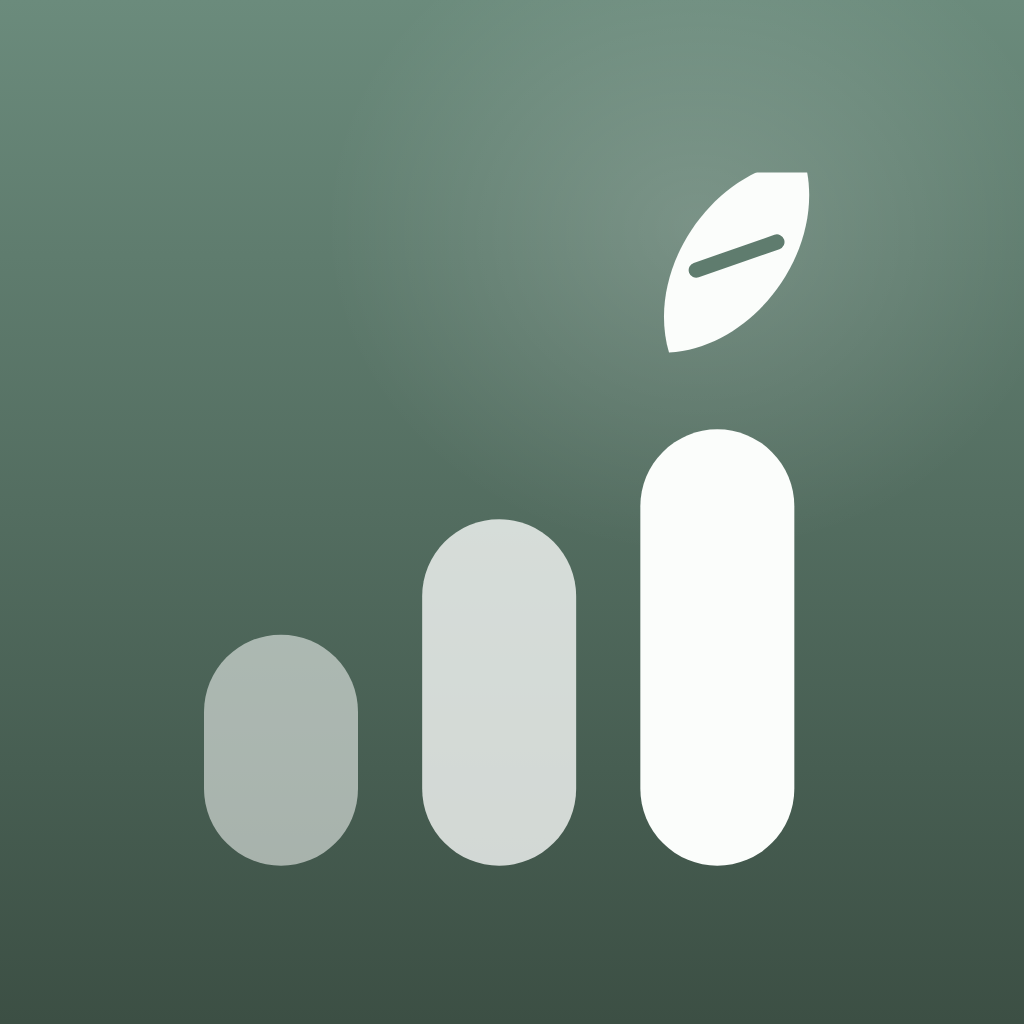
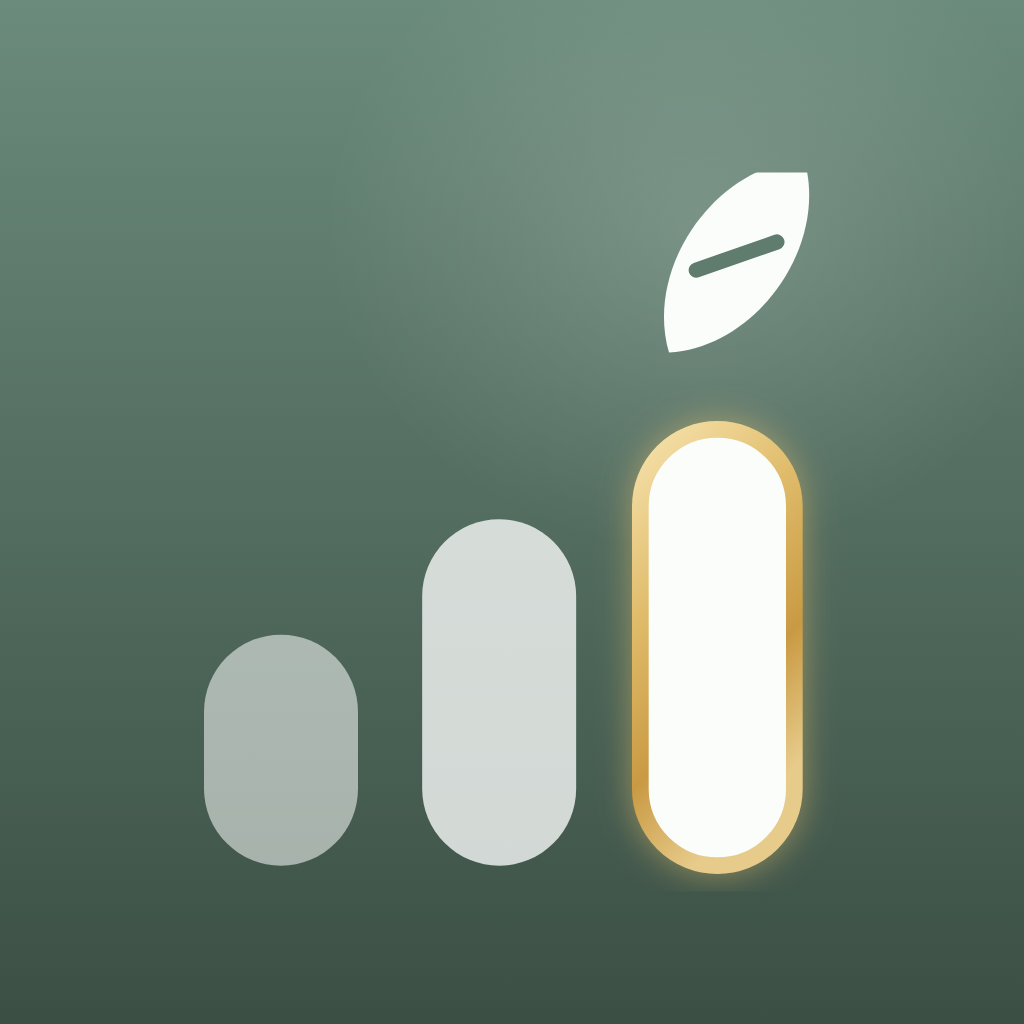
Gold the top bar, and break the review-screenshot deadlock
The subscription image was too close to the free app icon to tell apart at
a glance. The tallest bar now carries a gold border with a soft rim light.

The three bars are treated as a tier ladder, which is why the gold is on
the third one alone: Plus is currently the only tier and the top tier, so a
middle tier later takes bar 2 without redrawing anything and a free tier is
bar 1, already there and already plain. Gold on all three would retire the
ladder as a way of saying anything.

Adds scripts/render-paywall-screenshot.mjs for a real deadlock: App Store
Connect wants a review screenshot before the subscription can leave Missing
Metadata, and StoreKit cannot fetch a Missing Metadata product — so a
TestFlight paywall can only ever say "Subscription unavailable right now",
which is the one image a reviewer must not be given. The script loads the
real index.html, forces the gate on, stubs ONLY the store, opens the
shipping openPlusSheet() and captures it at 1320x2868. Nothing but the
price is a mock-up, and it fails loudly rather than writing a priceless
image if the stub does not reach the sheet.

It serves the app over a throwaway localhost server rather than file://,
because the app is origin-sensitive: IndexedDB and localStorage behave
differently there and loadState() would not run.

Claude-Session: https://claude.ai/code/session_012a8SrUUcH629Ld6oWwWTEW

Changed region(s): [[0.5938, 0.4062, 0.8125, 0.875]]

diff --git a/TherapyTracker-web/icon-ideas/groundwork/subscription-plus-1024.html b/TherapyTracker-web/icon-ideas/groundwork/subscription-plus-1024.html
@@ -5,11 +5,16 @@
      Regenerate rather than editing the PNG:
        node scripts/render-subscription-image.mjs
 
-     Deliberately close to the app icon so it is recognisably GroundWork at redemption-sheet
-     size. It KEEPS the icon's left-to-right fade (55% / 78% / 100% white) — lighting all three
-     bars equally was tried and reads flat, because that fade is what gives the mark its depth.
-     It differs by crop and light instead: a tighter, hero-sized mark and a soft lift behind
-     the leaf.
+     Recognisably GroundWork at redemption-sheet size, and unmistakably NOT the free app icon:
+     the tallest bar carries a gold border. Lighting all three bars equally was tried first and
+     reads flat — the left-to-right fade is what gives the mark its depth — so the fade stays
+     and the gold does the work.
+
+     THE THREE BARS ARE A TIER LADDER, and that is why the gold is on the third one alone.
+     Today Plus is the only tier and it is the top tier, so bar 3 is gold and bars 1 and 2 are
+     the plain fade. A middle tier later takes bar 2 (silver, or a lighter gold) without
+     redrawing anything; a free tier is bar 1, already there and already plain. Do not move the
+     gold to all three — the ladder stops meaning anything if every rung is the top.
 
      No text. Apple shows the subscription's name and description alongside this image, so a
      word here would be redundant, and it could not be localised. Colours are sampled from
@@ -27,7 +32,11 @@
   /* The icon's own fade, sampled from it: #94A29A, #C2CCC6, #FBFDFB against this gradient. */
   .b1{fill:#FBFDFB;opacity:.55}
   .b2{fill:#FBFDFB;opacity:.78}
-  .b3{fill:#FBFDFB}
+  /* Gold on the top rung. A warm gold against sage reads premium and, unlike a brighter
+     yellow, does not fight the green. The stroke straddles the path, so bar 3 ends up a
+     little wider than the other two — which helps rather than hurts: it is meant to be the
+     one your eye lands on. */
+  .b3{fill:#FBFDFB;stroke:url(#gold);stroke-width:2.6}
   .leaf{fill:#FBFDFB}
   /* Thin, and short enough to stay well inside the leaf — at 3.4 it read as a slash across a
      lens rather than a vein, and it touched the edges. */
@@ -36,9 +45,22 @@
 <div class="plate">
   <div class="glow"></div>
   <svg viewBox="0 0 120 112" role="img" aria-label="GroundWork Plus">
+    <defs>
+      <!-- Metallic rather than flat: a single gold is a yellow outline, a light-to-deep ramp
+           reads as a rim catching the light. -->
+      <linearGradient id="gold" x1="0" y1="0" x2="0.35" y2="1">
+        <stop offset="0%"   stop-color="#F7E3AE"/>
+        <stop offset="38%"  stop-color="#E0BC6B"/>
+        <stop offset="72%"  stop-color="#C99A43"/>
+        <stop offset="100%" stop-color="#E7CB8B"/>
+      </linearGradient>
+      <filter id="goldglow" x="-60%" y="-60%" width="220%" height="220%">
+        <feDropShadow dx="0" dy="0" stdDeviation="2.6" flood-color="#E0BC6B" flood-opacity=".55"/>
+      </filter>
+    </defs>
     <rect class="b1" x="12" y="72" width="24" height="36" rx="12"/>
     <rect class="b2" x="46" y="54" width="24" height="54" rx="12"/>
-    <rect class="b3" x="80" y="40" width="24" height="68" rx="12"/>
+    <g filter="url(#goldglow)"><rect class="b3" x="80" y="40" width="24" height="68" rx="12"/></g>
     <!-- Lifted and nudged right of the splash mark's own placement: there the leaf all but
          touches the tallest bar, which at this size reads as one shape rather than two. -->
     <g transform="translate(95 13) rotate(35) scale(1.08)">

diff --git a/docs/plus-launch-checklist.md b/docs/plus-launch-checklist.md
@@ -73,10 +73,22 @@ App Store Connect → **Apps** → GroundWork → **Subscriptions**
       `TherapyTracker-web/icon-ideas/groundwork/subscription-plus-1024.png`
       Regenerate with `node scripts/render-subscription-image.mjs`; the `.html` beside it is
       the source. Opaque, square, no rounded corners — Apple masks its own.
-- [ ] Add the **review screenshot** — the *App Review Information* one: an ordinary iPhone
-      screenshot of the paywall, so a reviewer can see where the purchase is offered.
-      Customers never see it. Upload whatever you have now and replace it once the price
-      renders — but never a build whose paywall reads "Subscription unavailable right now".
+- [ ] Add the **review screenshot** — the *App Review Information* one, so a reviewer can see
+      where the purchase is offered. Customers never see it.
+      `TherapyTracker-web/icon-ideas/groundwork/paywall-review-screenshot.png`
+
+> **The catch-22, and how it breaks.** App Store Connect wants this screenshot before the
+> subscription can leave *Missing Metadata*, and StoreKit cannot fetch a product that is still
+> in *Missing Metadata* — so a TestFlight paywall can only ever say "Subscription unavailable
+> right now", which is the one image you must not give a reviewer.
+>
+> `node scripts/render-paywall-screenshot.mjs --price "£39.99"` breaks it with no Mac and no
+> live product: it loads the real `index.html`, forces the gate on, stubs **only** the store,
+> opens the shipping `openPlusSheet()` and captures it at 1320×2868 (iPhone 6.9"). Every pixel
+> but the price is the real app.
+>
+> The price is a placeholder. Re-run with the real `--price` once step 2 is saved, and swap in
+> a genuine device screenshot before you submit for review.
 
 > ⚠ The product ID must match **exactly**. It is hardcoded at
 > `ios/App/App/GroundWorkNativePlugin.swift:47`. A mismatch shows an empty price on the paywall

diff --git a/docs/app-store-listing.md b/docs/app-store-listing.md
@@ -140,3 +140,24 @@ guessed: `#6B8B7C` → `#3C4F44`, bars at 55% / 78% / 100% white.
 
 It carries **no text** on purpose: Apple shows the subscription's name and description beside
 the image, so a word here would be redundant and could not be localised.
+
+**The three bars are a tier ladder.** Gold is on the third one alone because Plus is currently
+the only tier *and* the top tier. A middle tier later takes bar 2 without redrawing anything,
+and a free tier is bar 1, already there and already plain. Putting gold on all three would
+retire the ladder as a way of saying anything.
+
+## Subscription review screenshot
+
+`TherapyTracker-web/icon-ideas/groundwork/paywall-review-screenshot.png` — 1320×2868, the
+*App Review Information* screenshot on the subscription itself. Customers never see it; it
+exists so a reviewer can find where the purchase is offered.
+
+Generated by `node scripts/render-paywall-screenshot.mjs --price "£39.99"`, which exists to
+break a genuine deadlock: App Store Connect wants this screenshot before the subscription can
+leave *Missing Metadata*, and StoreKit cannot fetch a *Missing Metadata* product — so a
+TestFlight paywall can only say "Subscription unavailable right now" until the screenshot is
+already uploaded. The script renders the real `openPlusSheet()` from `index.html` with only the
+store stubbed, so nothing about the layout or copy is a mock-up.
+
+The price in it is a placeholder. Re-run with the real one once the product is saved, and
+replace it with a genuine device screenshot before submitting for review.
